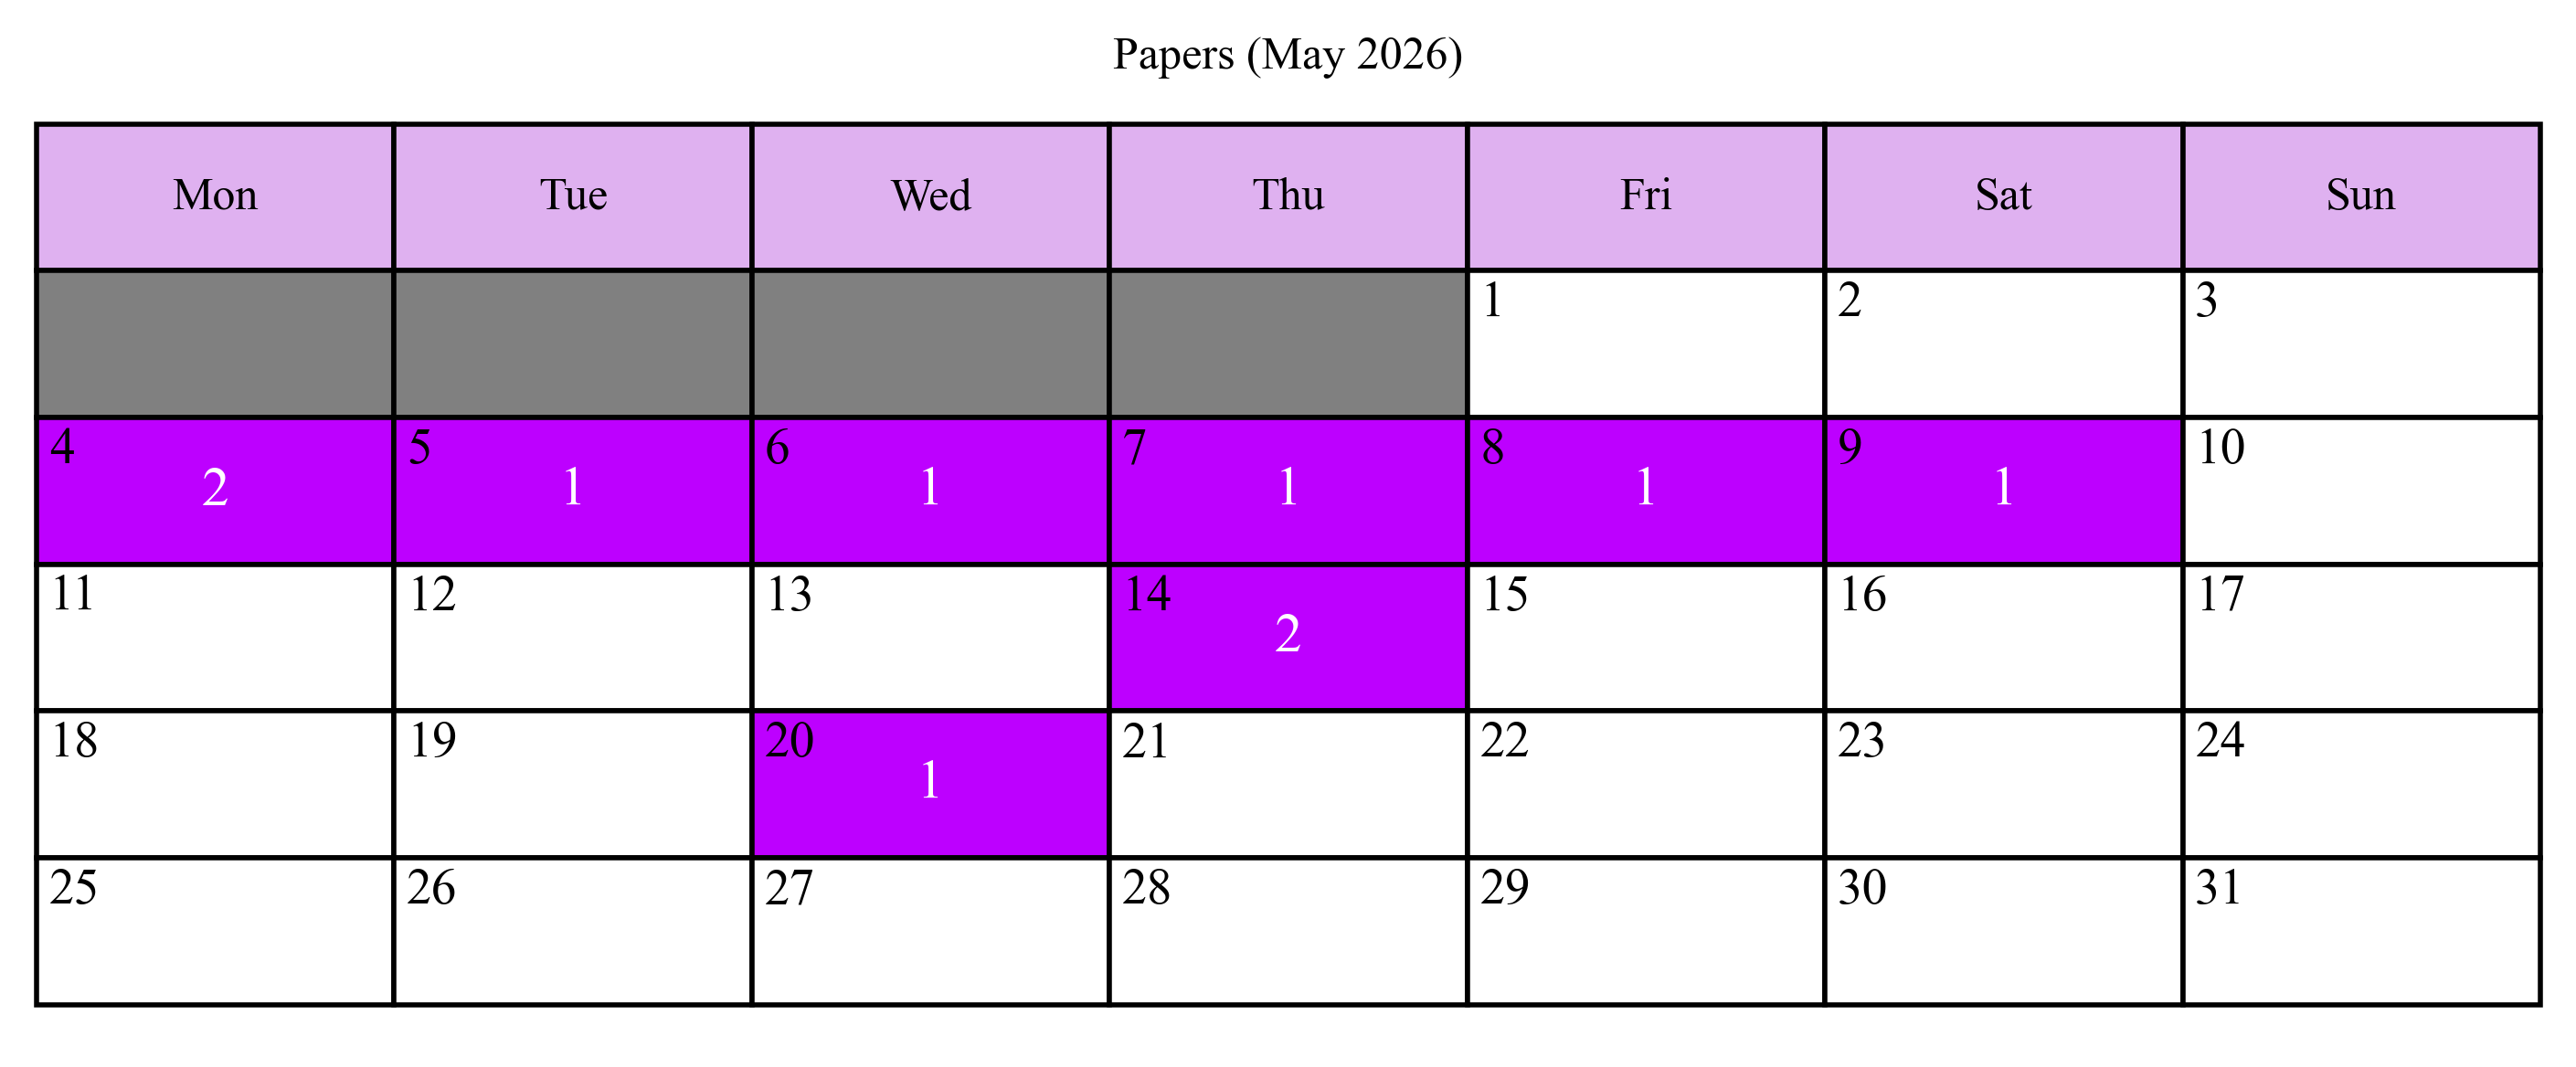
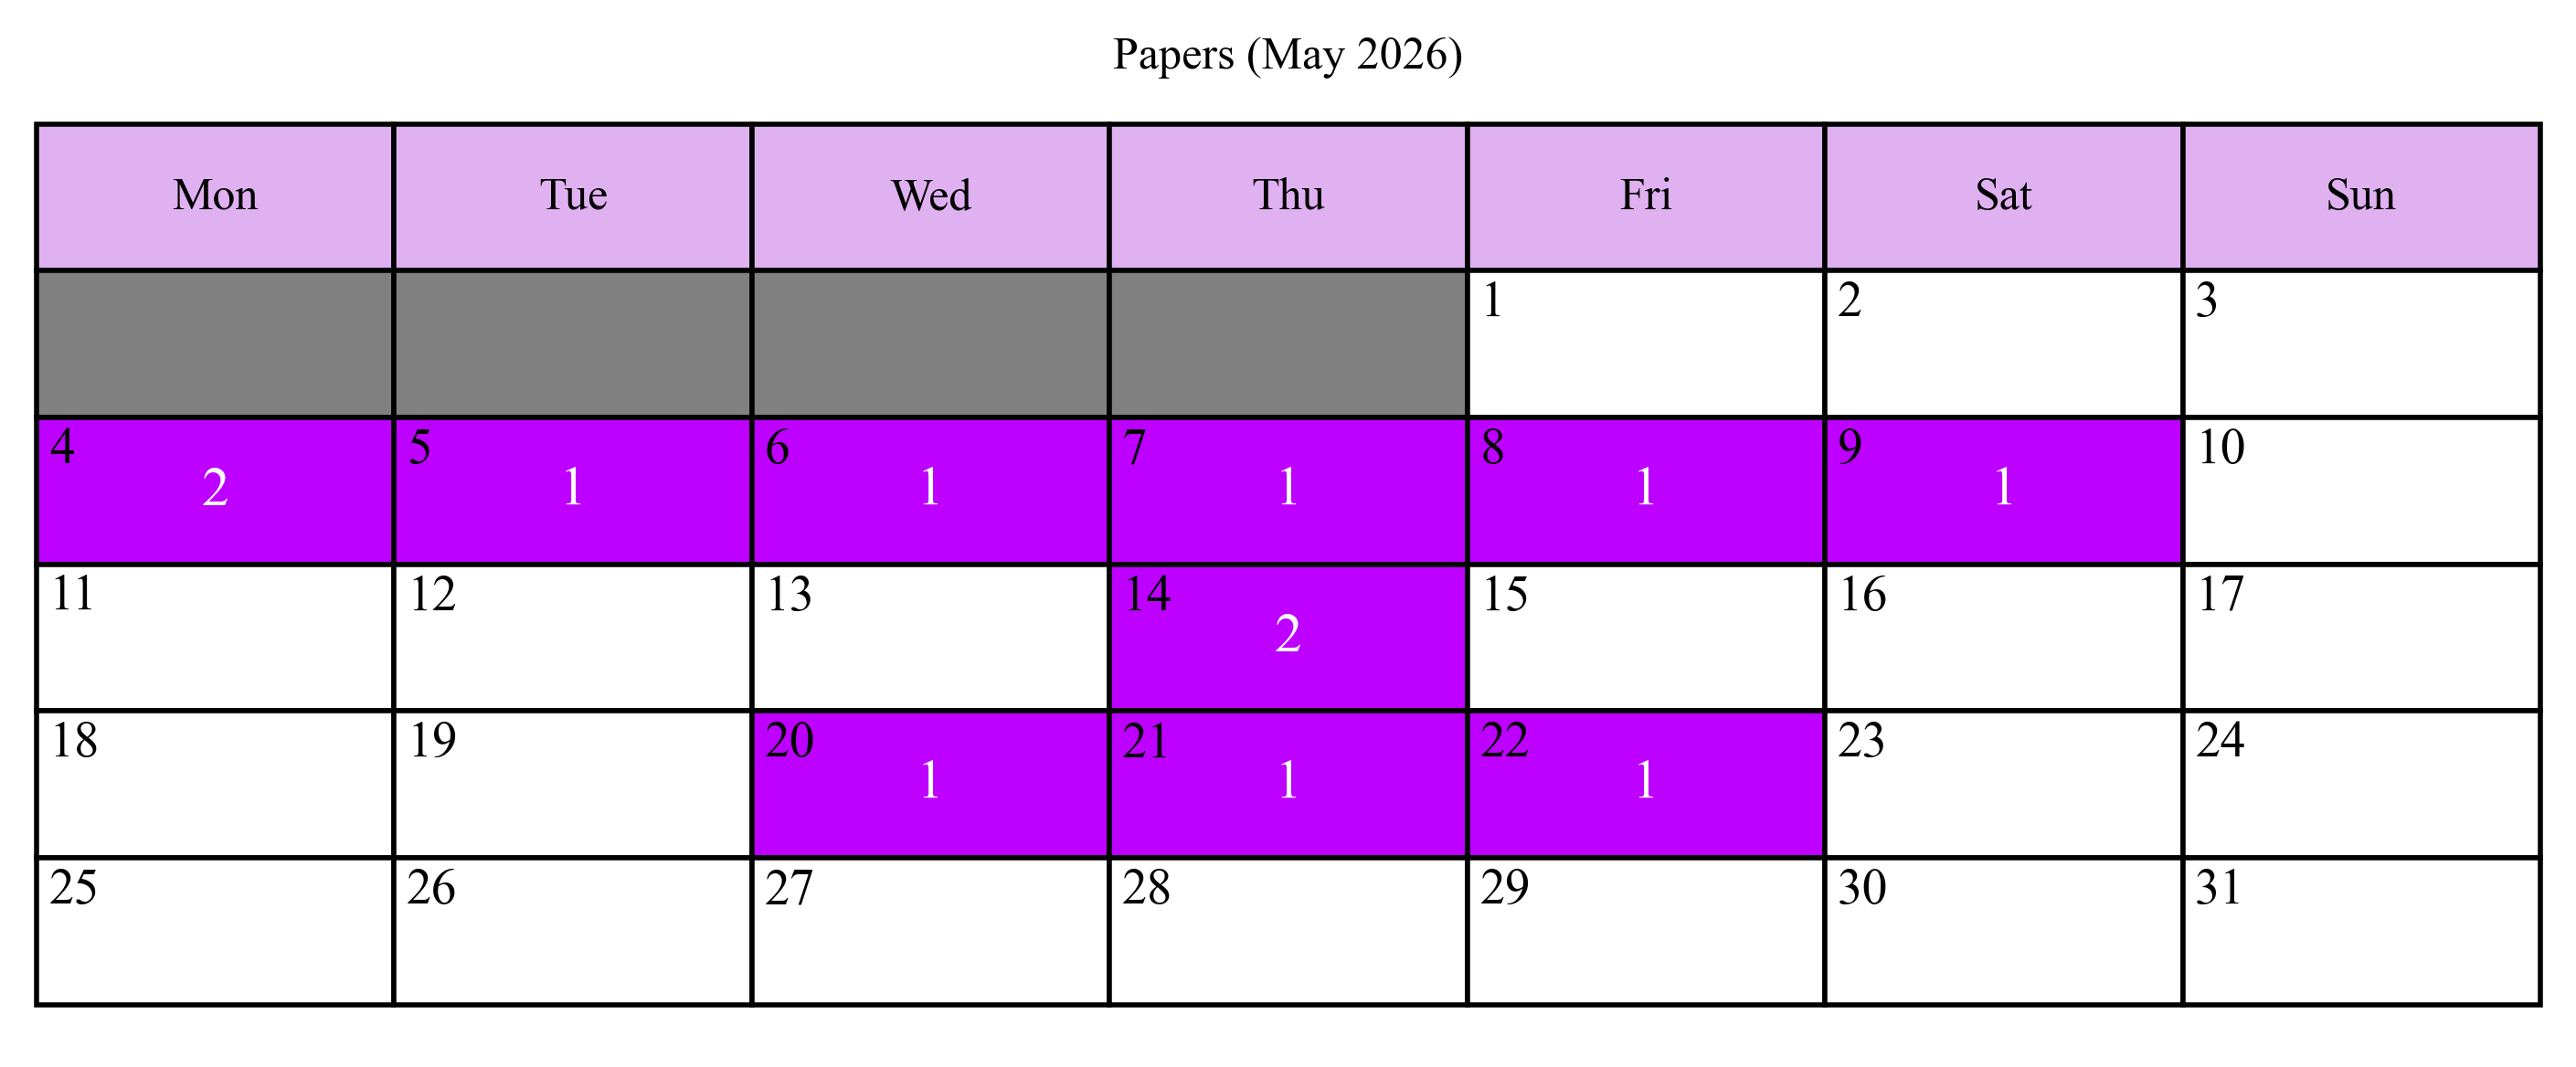
(Automated) updated paper log: May 22, 2026

Changed region(s): [[0.4058, 0.6473, 0.718, 0.8014]]

diff --git a/papers/index.html b/papers/index.html
@@ -29,11 +29,13 @@
       <div class="main-content">
         <div class="main-section">
           <!-- <summary_text> -->
-<p>This is where I log the papers I've read this year. My goal for 2026 is to read 300 papers. By the time this document was last updated (<b>May 21, 2026</b>), I have read <b>57 papers</b> this year. I should have read <b>115 papers</b> by this time, meaning I am <b>58 papers behind schedule</b>.</p>
+<p>This is where I log the papers I've read this year. My goal for 2026 is to read 300 papers. By the time this document was last updated (<b>May 22, 2026</b>), I have read <b>59 papers</b> this year. I should have read <b>116 papers</b> by this time, meaning I am <b>57 papers behind schedule</b>.</p>
           <!-- </summary_text> -->
           <p><img src="cal.png" style="width: 100%;" alt="A monthly calendar depicting the following tabular data graphically."></p>
           <!-- <paper_table> -->
 <table>
+  <tr><td>5/22/26</td><td>MoE-Infinity: Efficient MoE Inference on Personal Machines with Sparsity-Aware Expert Cache</td><td><a href="https://arxiv.org/pdf/2401.14361v3" target="_parent">Link</a></td><td>University of Edinburgh, arXiv, 2025</td></tr>
+  <tr><td>5/21/26</td><td>HeadInfer: Memory-Efficient LLM Inference by Head-wise Offloading</td><td><a href="https://arxiv.org/pdf/2502.12574" target="_parent">Link</a></td><td>Cal Tech, arXiv, 2025</td></tr>
   <tr><td>5/20/26</td><td>Helios: Adaptive Model and Early-Exit Selection for Efficient LLM Inference Serving</td><td><a href="https://arxiv.org/pdf/2504.10724" target="_parent">Link</a></td><td>UT Austin, arXiv, 2025</td></tr>
   <tr><td>5/14/26</td><td>CUCo: An Agentic Framework for Compute and Communication Co-design</td><td><a href="https://arxiv.org/pdf/2603.02376" target="_parent">Link</a></td><td>UT Austin, arXiv, 2026</td></tr>
   <tr><td>5/14/26</td><td>Mirage Persistent Kernel: A Compiler and Runtime for Mega-Kernelizing Tensor Programs</td><td><a href="https://www.usenix.org/conference/osdi25/presentation/wu-mengdi" target="_parent">Link</a></td><td>Carnegie Mellon, OSDI, 2025</td></tr>
@@ -87,7 +89,7 @@
       <!-- <last_updated_text> --> 
 <div class="last-updated">
   <p class="last-updated-text">
-    Last updated: May 21, 2026 at 14:04 UTC.
+    Last updated: May 22, 2026 at 23:20 UTC.
   </p>
 </div>
 